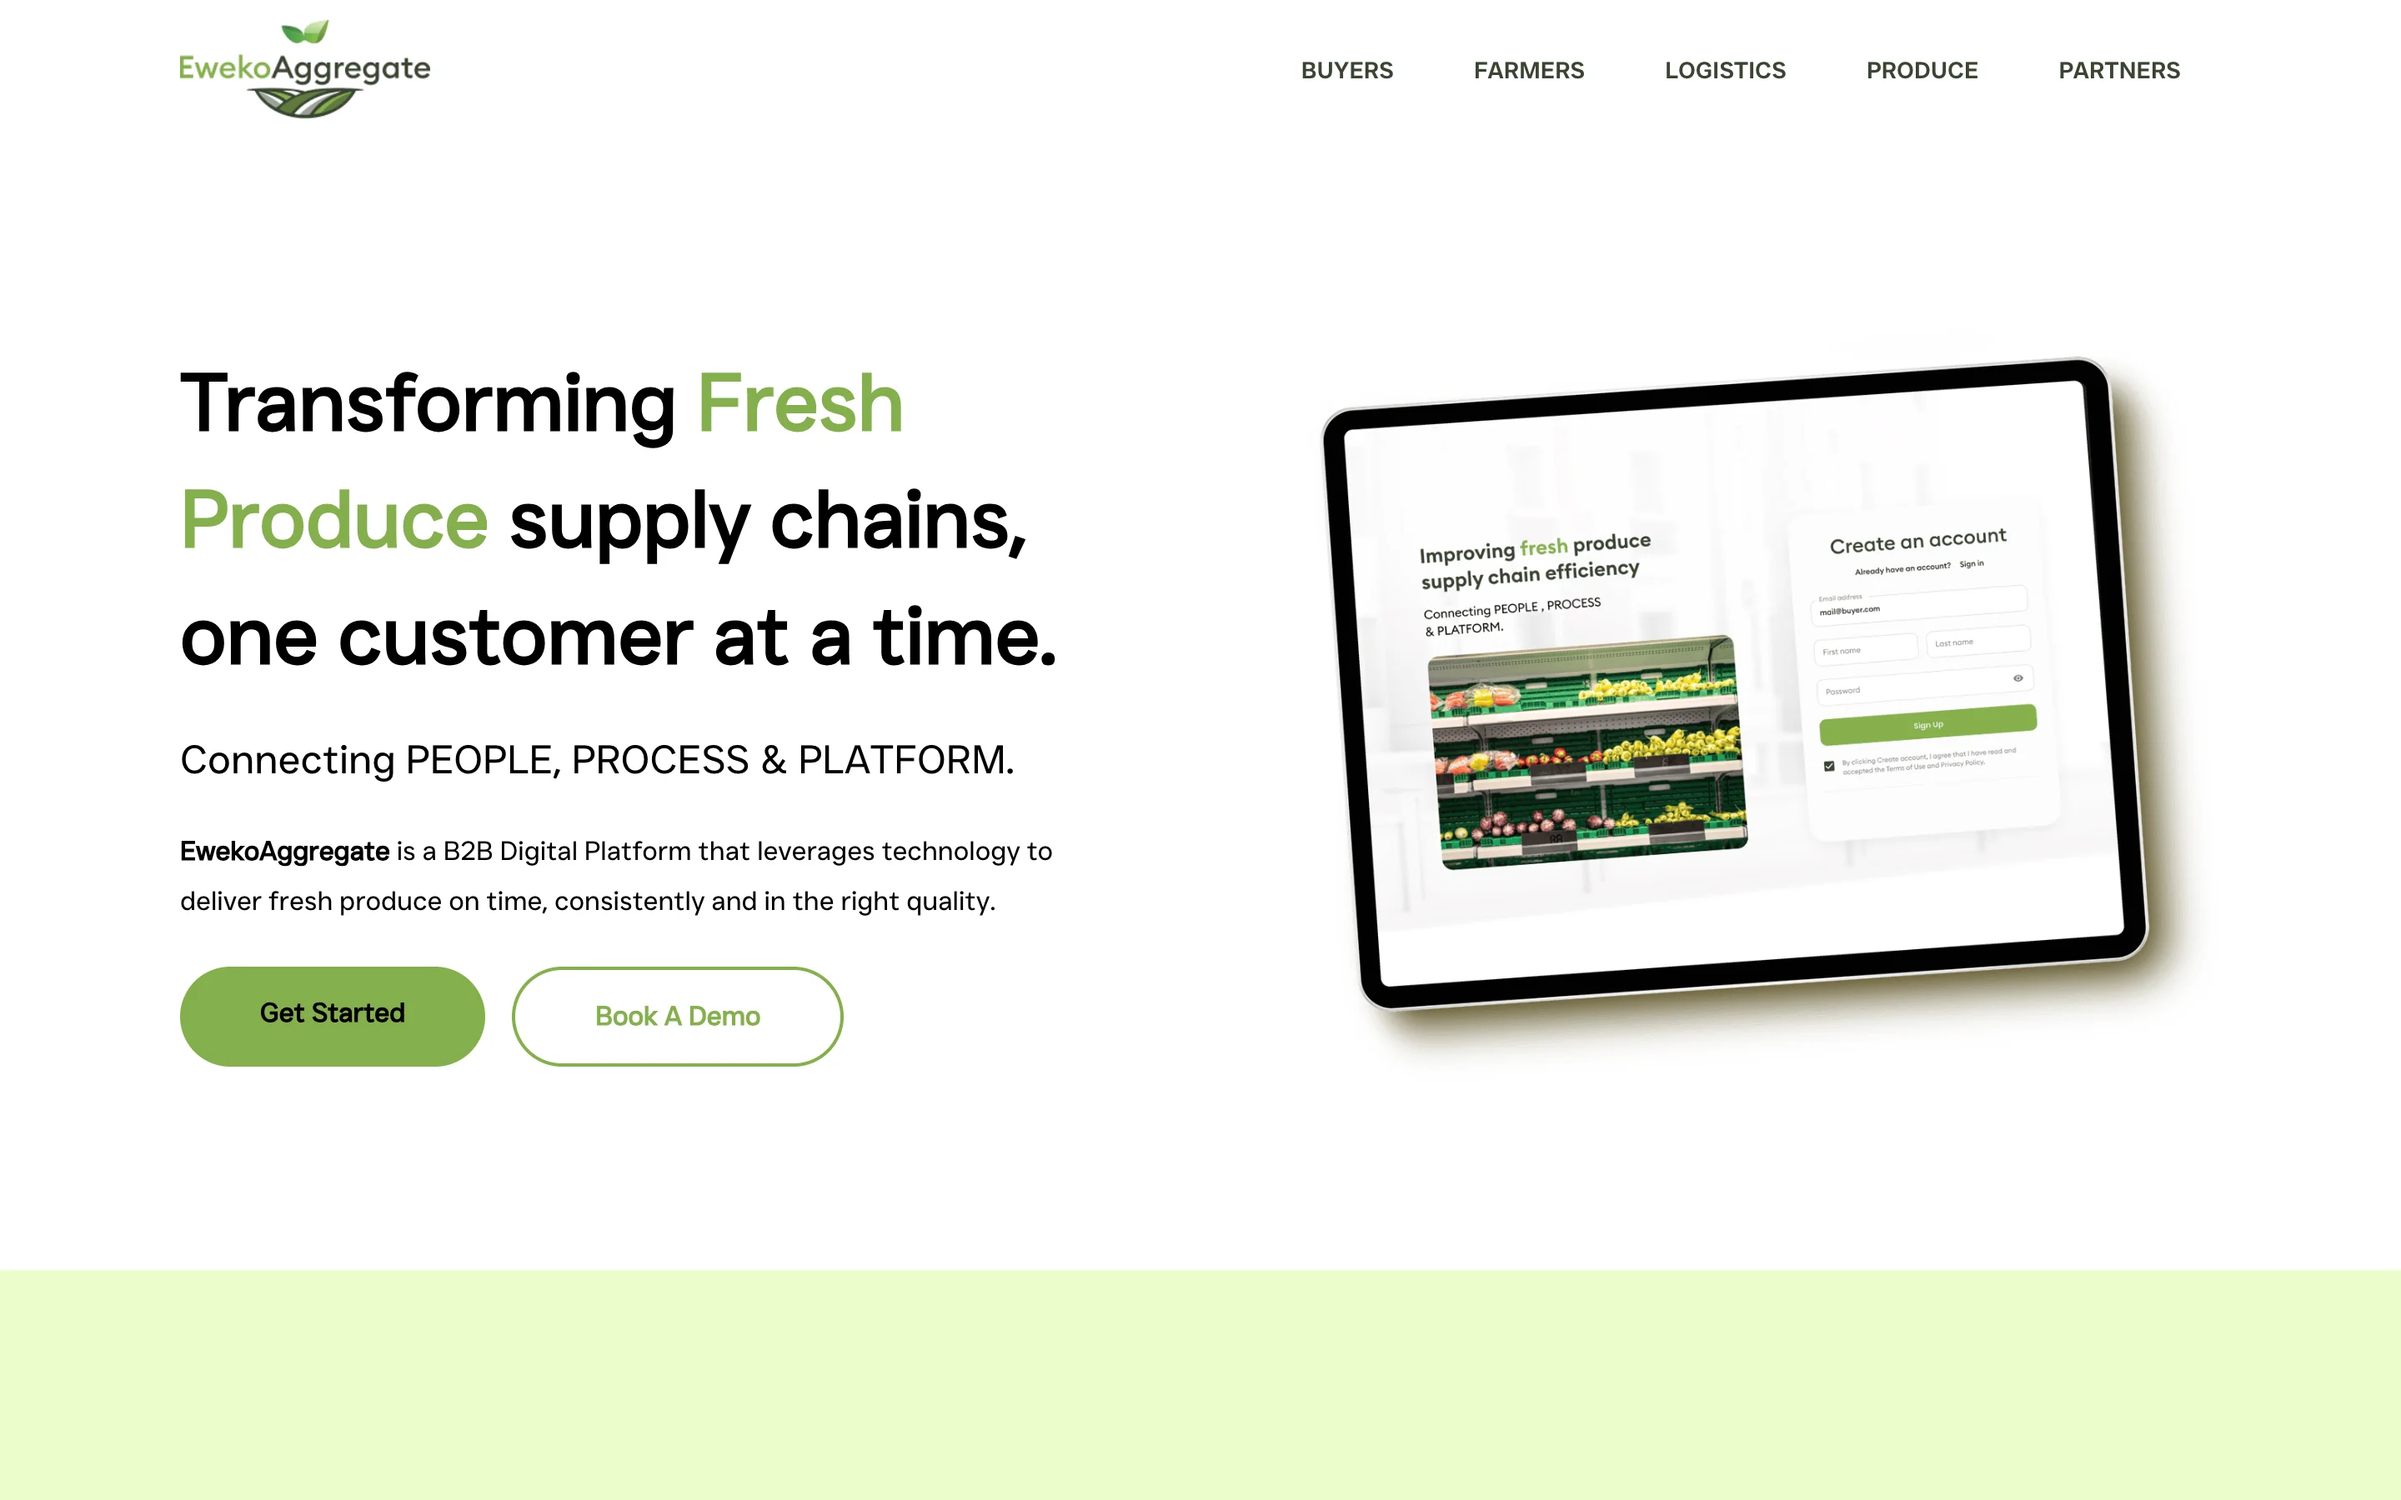
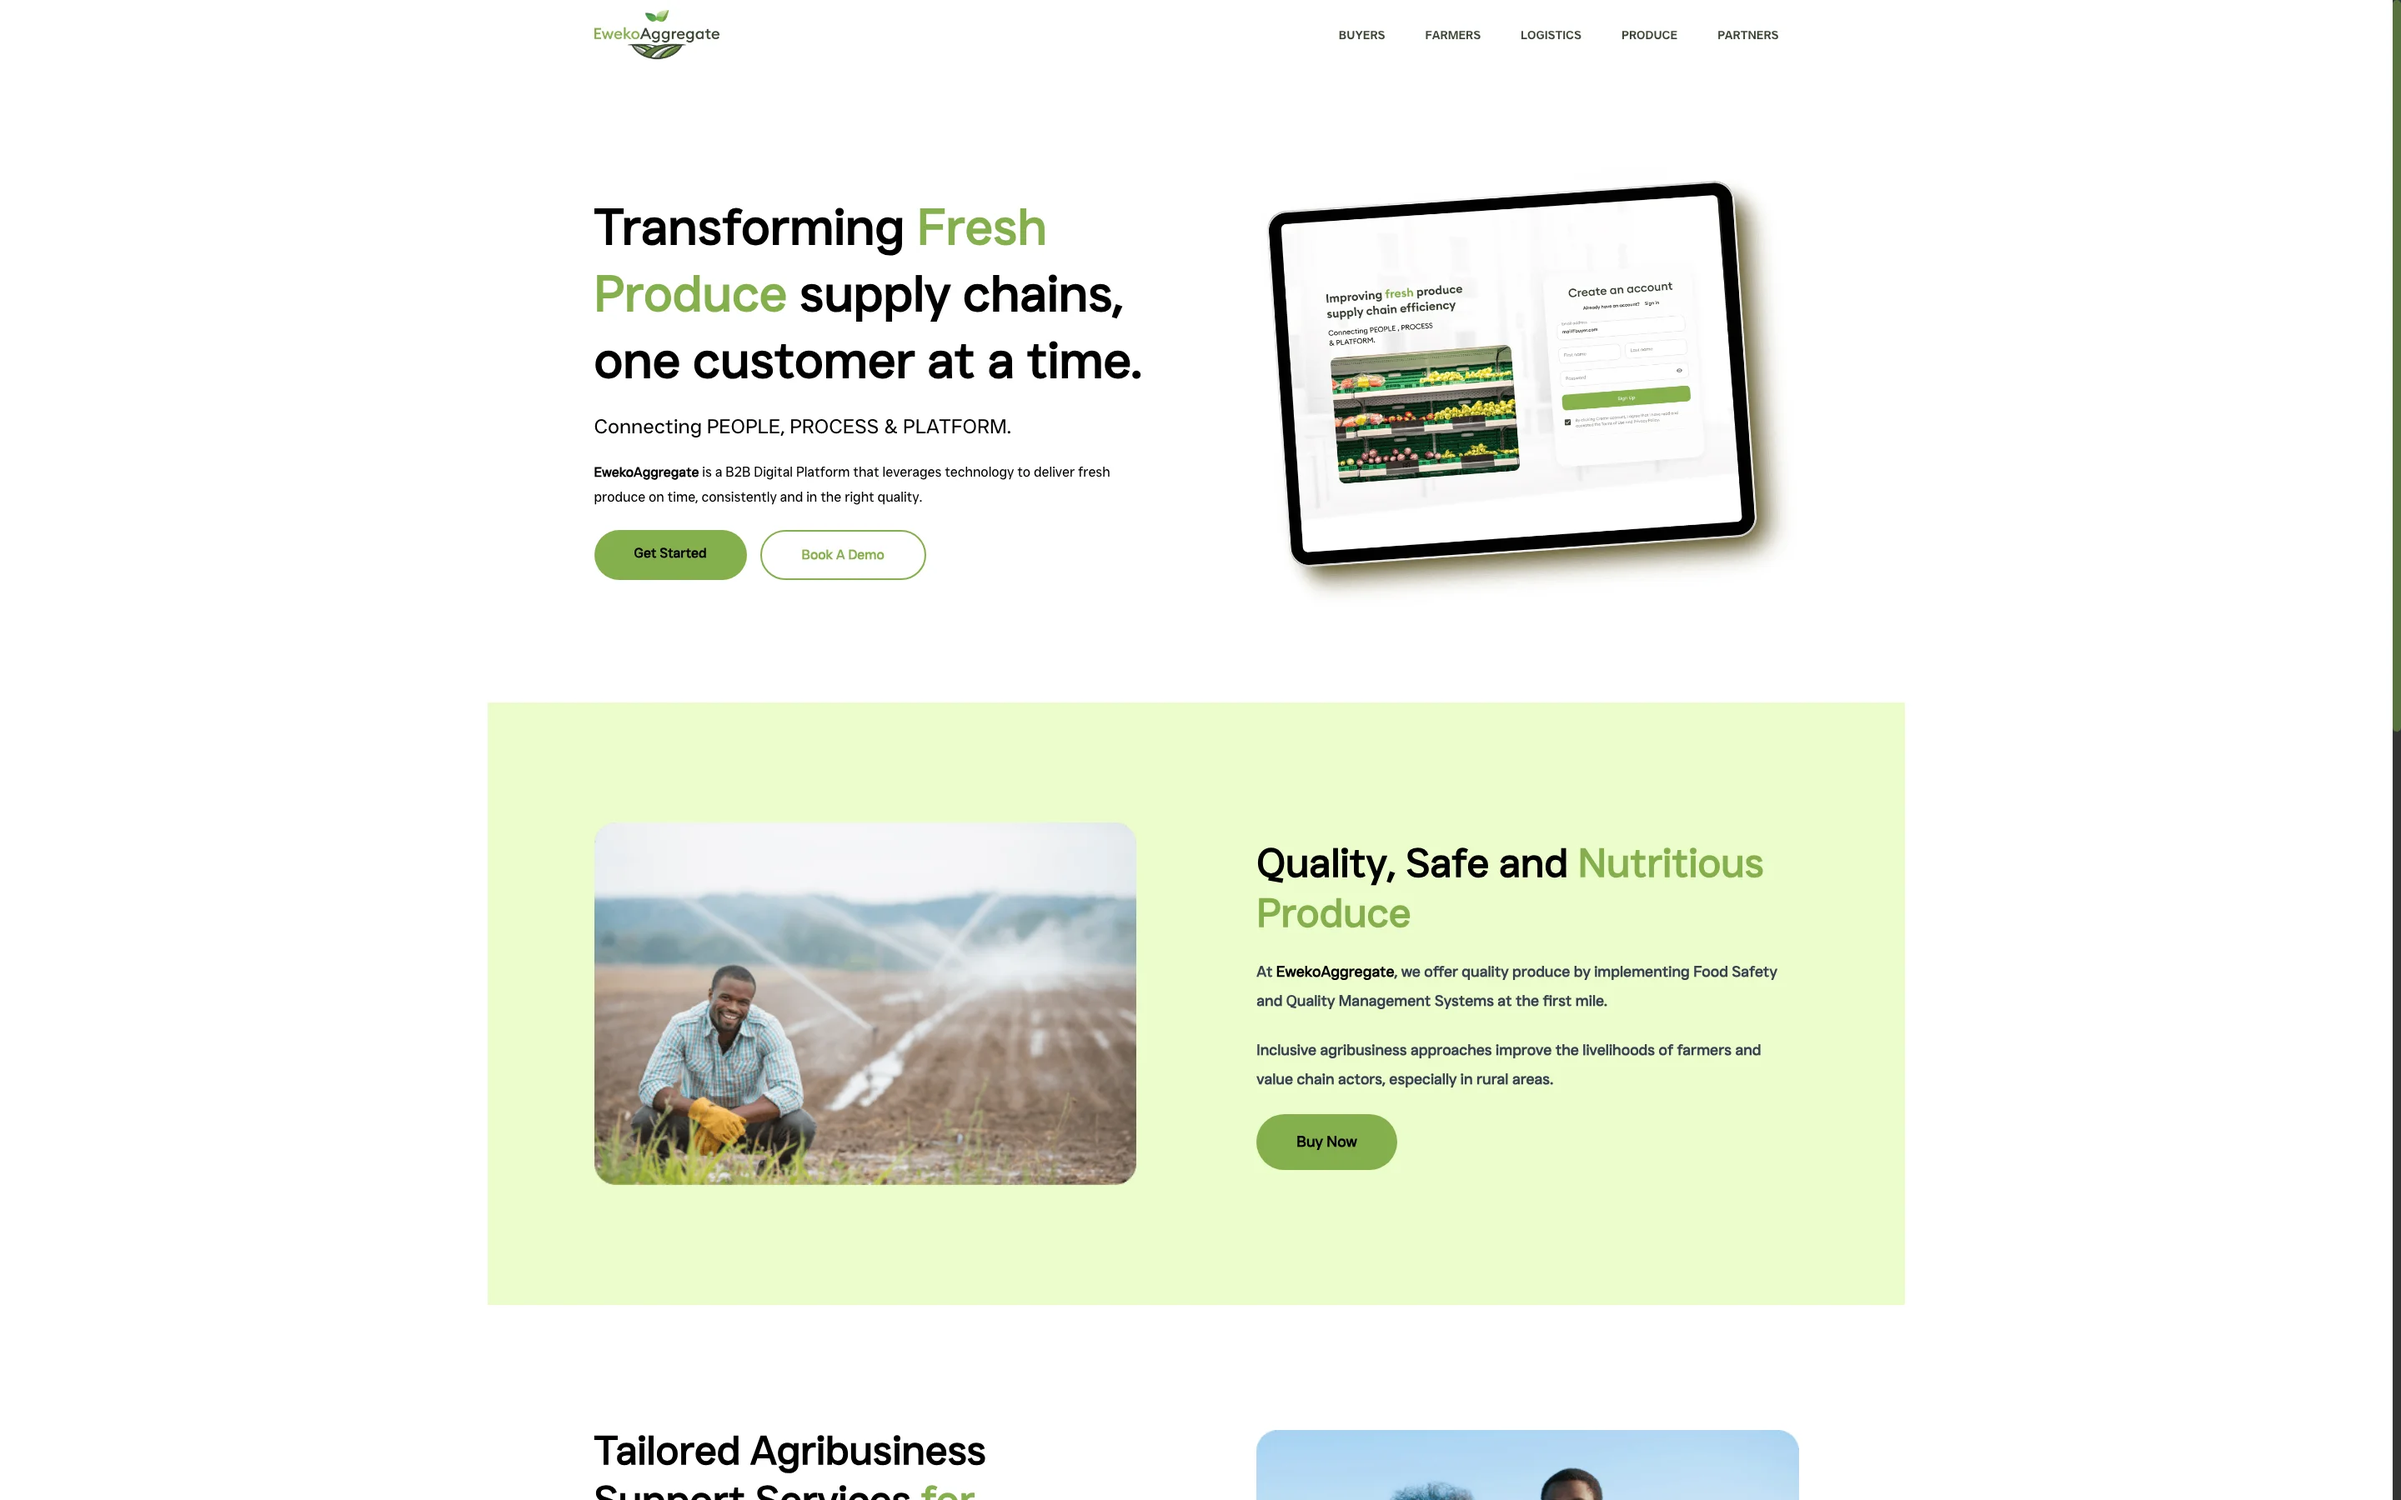
feat(projects): add ClearCut and NIPSMAP, refresh EwekoAggregate screenshot, and reorder SaraBell

diff --git a/app/projects/components/ProjectPage.tsx b/app/projects/components/ProjectPage.tsx
@@ -56,6 +56,11 @@ const categoryColorMap: Record<string, { text: string; bg: string; border: strin
     bg: "#e6b45015",
     border: "#e6b45040",
   },
+  "mobile development": {
+    text: "#39bae6",
+    bg: "#39bae615",
+    border: "#39bae640",
+  },
   "fullstack development": {
     text: "#39bae6",
     bg: "#39bae615",
